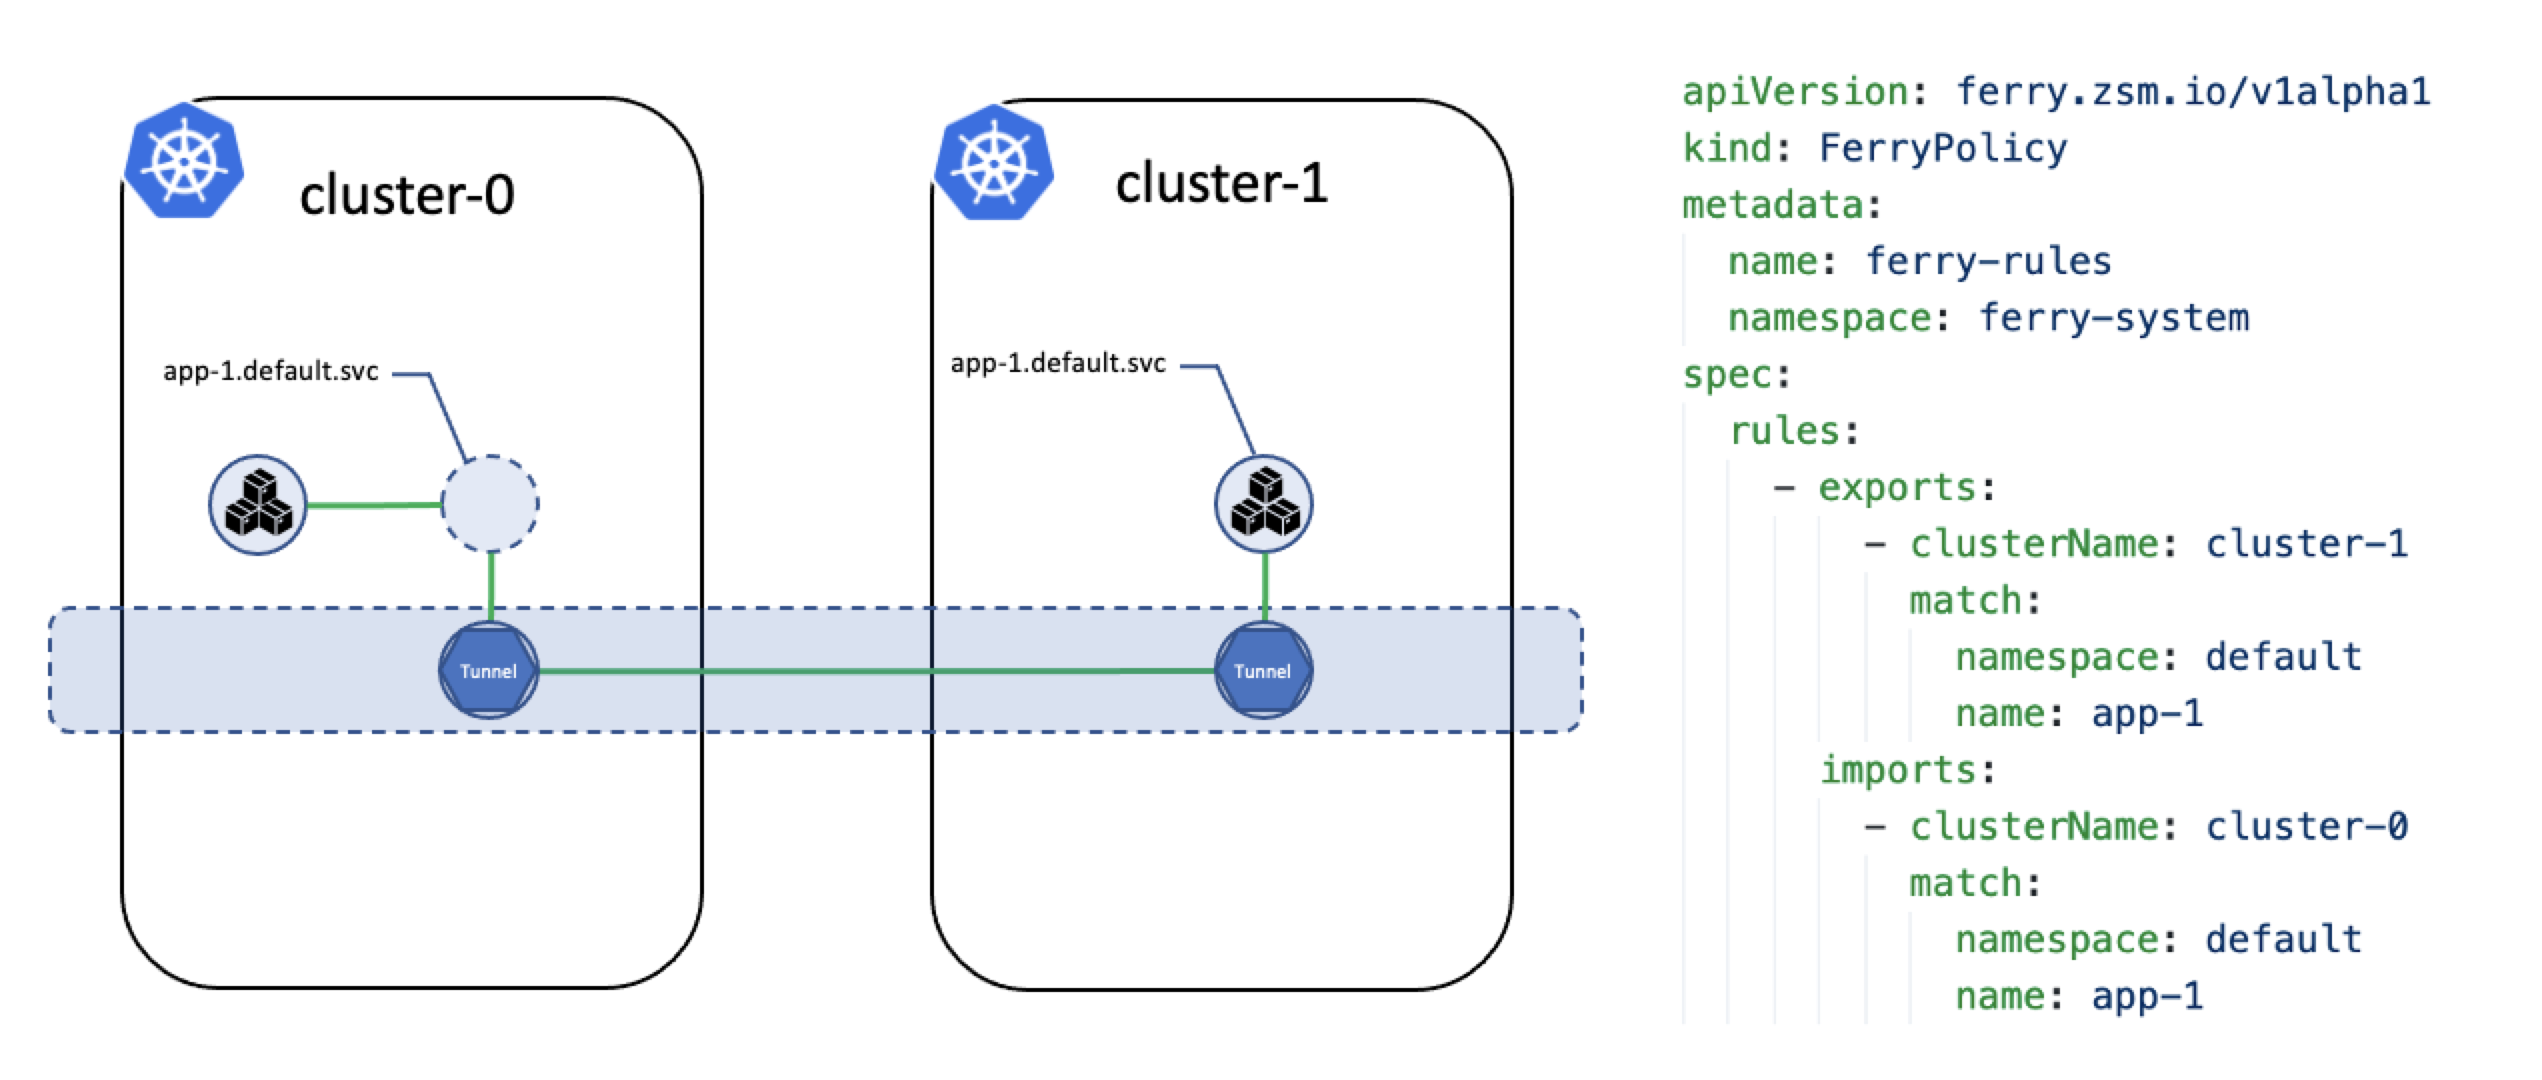
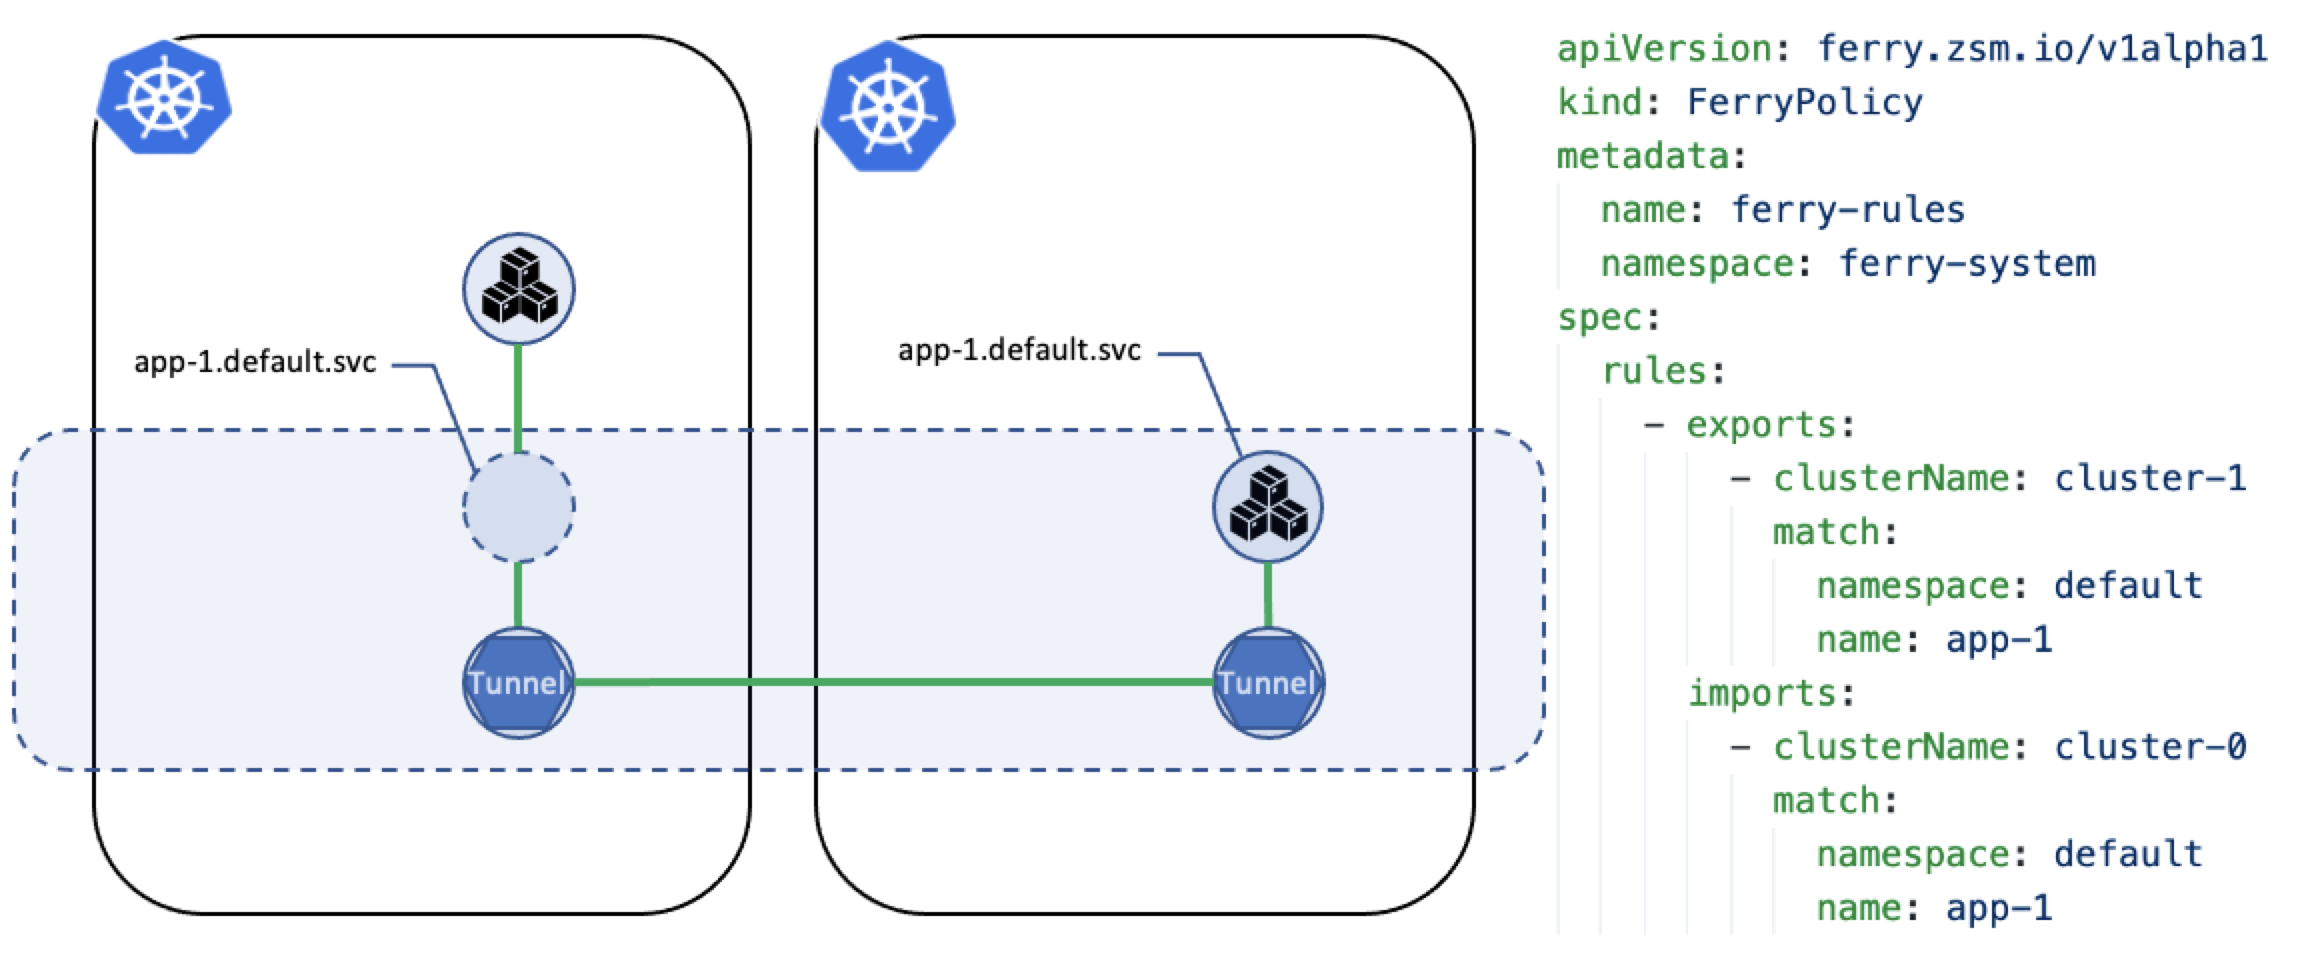
Update image

diff --git a/content/en/_index.md b/content/en/_index.md
@@ -10,13 +10,30 @@ The main idea of Ferry is to map the Service of one cluster to another cluster, 
 
 The Tunnel component in the Ferry project is mainly used to open up communication between different clusters, and has no requirements for the network environment and network segment currently used by the cluster.
 
-![Architecture](/images/architecture.png)
+## Public to Public
+
+<img src="/images/cloud-to-cloud.png" width="600">
+
+## Public to Private
+
+<img src="/images/cloud-to-edge.png" width="600">
+
+## Private to Public
+
+<img src="/images/edge-to-cloud.png" width="600">
+
+## Private to Private
+
+<img src="/images/edge-to-edge.png" width="800">
+
+
+## Example
 
 Ferry defines a very simple API for configuring service mapping rules between clusters
 
 It can be very simple to describe which services need to be exposed to other clusters
 
-![Case](/images/case.png)
+<img src="/images/case.png" width="800">
 
 ## How to use ferry
 
